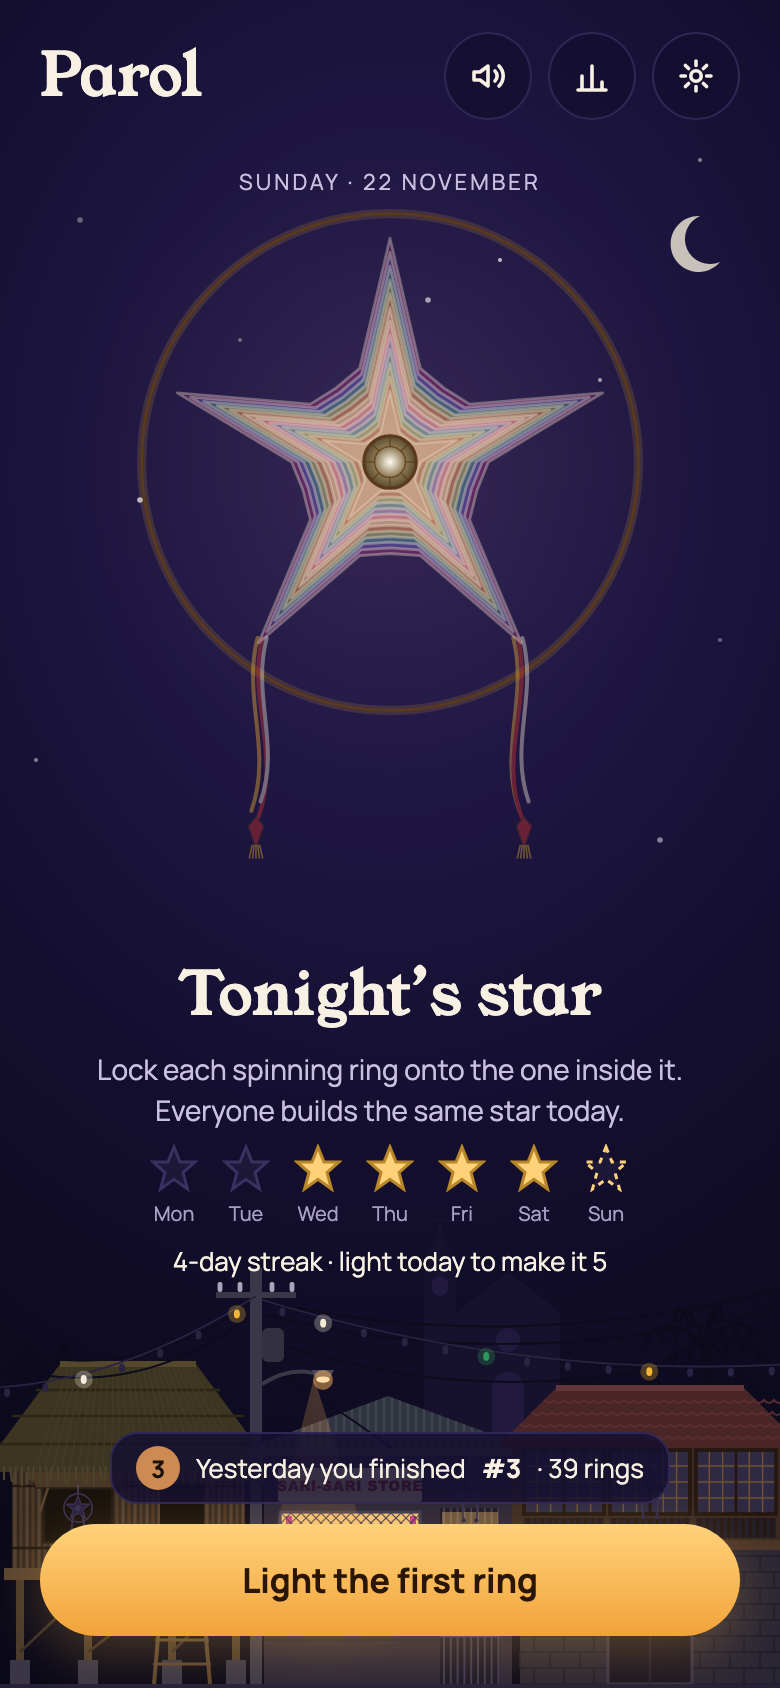
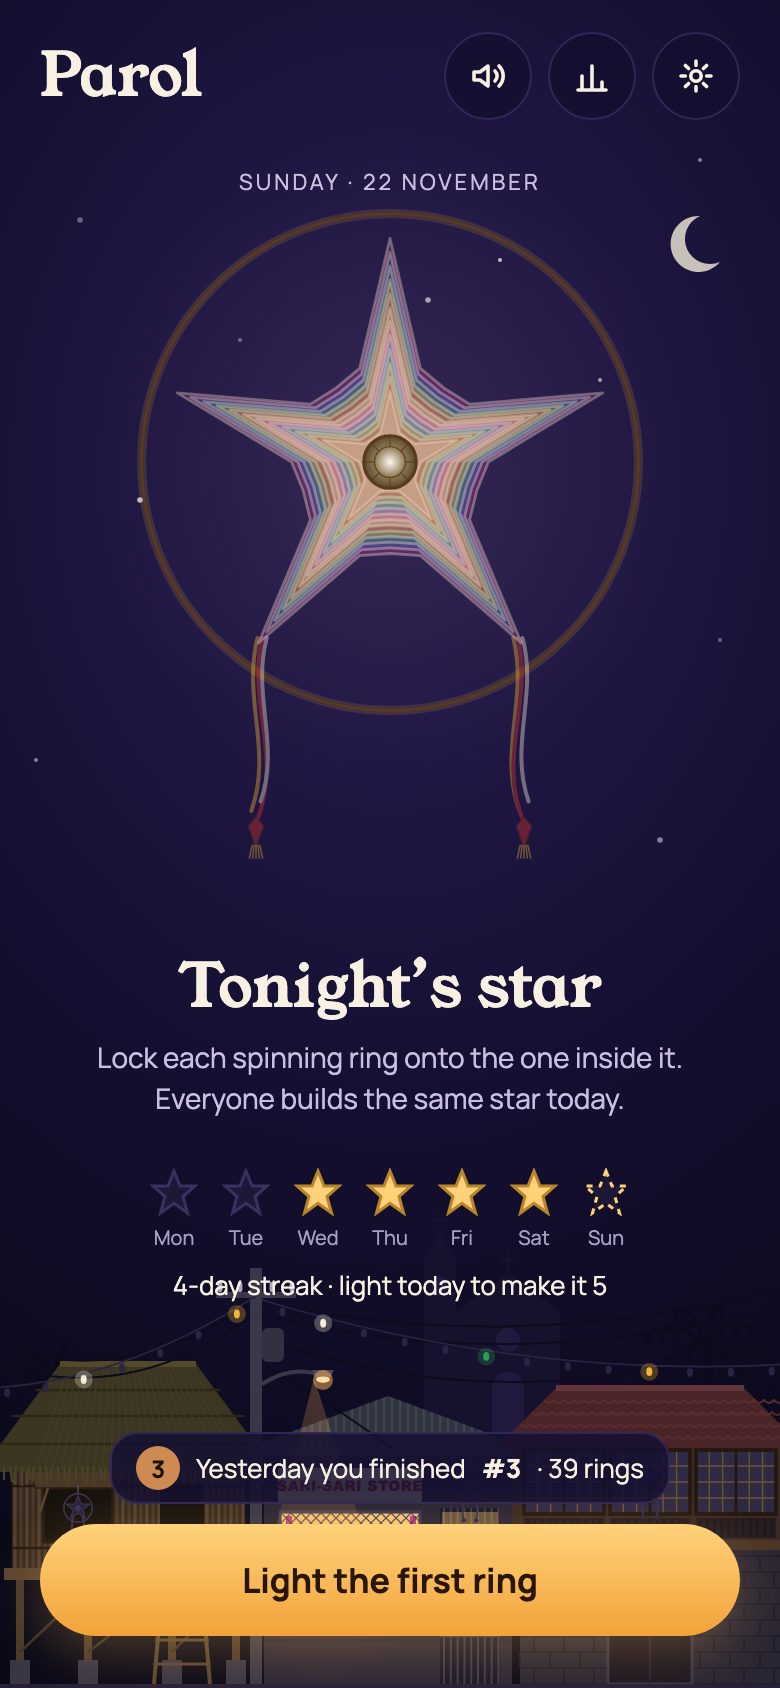
Even out spacing on the Parol phone screens
Measured every screen for overlaps and tight gaps. The board's name card
now fits inside the margins, the reduced-motion callout clears the meter,
the offline notice clears the star, and Loading, Ready and Run ended use
the 8/16/24 scale. Canvas artboards re-synced.

Changed region(s): [[0.1231, 0.5545, 0.8615, 0.7701]]

diff --git a/design/remotion/src/mockups/phone.tsx b/design/remotion/src/mockups/phone.tsx
@@ -75,7 +75,7 @@ export const RunScreen: React.FC<{ stage?: Stage; rings: number; streak: number;
 
 export const P01Loading: React.FC = () => (
   <Screen>
-    <div style={{ position: 'absolute', inset: 0, display: 'flex', flexDirection: 'column', alignItems: 'center', justifyContent: 'center', gap: 18, paddingBottom: 120 }}>
+    <div style={{ position: 'absolute', inset: 0, display: 'flex', flexDirection: 'column', alignItems: 'center', justifyContent: 'center', gap: 24, paddingBottom: 120 }}>
       <Parol size={180} locks={[0, 0, 0, 0]} light={0.5} />
       <Wordmark size={54} />
       <span style={{ fontSize: 14, color: C.muted }}>Lighting tonight’s star…</span>
@@ -102,11 +102,11 @@ export const P02Ready: React.FC = () => (
     <StarStage top={96} size={270}>
       <Parol size={270} locks={TONIGHT} dim />
     </StarStage>
-    <div style={{ position: 'absolute', left: 24, right: 24, top: 476, display: 'flex', flexDirection: 'column', alignItems: 'center', gap: 6, textAlign: 'center' }}>
-      <span style={{ fontFamily: SERIF, fontSize: 30 }}>Tonight’s star</span>
+    <div style={{ position: 'absolute', left: 24, right: 24, top: 476, display: 'flex', flexDirection: 'column', alignItems: 'center', gap: 8, textAlign: 'center' }}>
+      <span style={{ fontFamily: SERIF, fontSize: 30, lineHeight: 1.15 }}>Tonight’s star</span>
       <span style={{ fontSize: 14, lineHeight: 1.45, color: C.muted }}>Lock each spinning ring onto the one inside it. Everyone builds the same star today.</span>
     </div>
-    <div style={{ position: 'absolute', left: 20, right: 20, top: 572, display: 'flex', flexDirection: 'column', alignItems: 'center', gap: 8 }}>
+    <div style={{ position: 'absolute', left: 20, right: 20, top: 584, display: 'flex', flexDirection: 'column', alignItems: 'center', gap: 8 }}>
       <WeekStars lit={[false, false, true, true, true, true, false]} today={6} />
       <span style={{ fontSize: 13 }}>4-day streak · light today to make it 5</span>
     </div>
@@ -265,7 +265,7 @@ export const P11Results: React.FC = () => (
       <span style={{ fontFamily: SERIF, fontSize: 30, lineHeight: 1.1 }}>The points got too thin</span>
       <span style={{ fontSize: 13, color: C.muted }}>Ring 13 locked 7° off, leaving 4° points (8° needed)</span>
     </div>
-    <div style={{ position: 'absolute', left: 20, right: 20, top: 480, display: 'grid', gridTemplateColumns: 'repeat(3, minmax(0, 1fr))', gap: 8 }}>
+    <div style={{ position: 'absolute', left: 20, right: 20, top: 474, display: 'grid', gridTemplateColumns: 'repeat(3, minmax(0, 1fr))', gap: 8 }}>
       <StatTile value="12" label="rings" />
       <StatTile value="7" label="perfect" color={C.gold} />
       <StatTile value="#14" label="today" />
@@ -317,7 +317,7 @@ export const P12Board: React.FC = () => (
         ]}
       />
     </div>
-    <div style={{ position: 'absolute', left: 20, right: 20, bottom: 26 }}>
+    <div style={{ position: 'absolute', left: 20, right: 20, bottom: 26, display: 'flex' }}>
       <Card>
         <Label>Your name on the board</Label>
         <label style={{ display: 'flex', alignItems: 'center', gap: 10, height: 48, padding: '0 14px', borderRadius: 12, background: '#15112f', border: `1px solid ${C.line}`, fontSize: 15 }}>

diff --git a/design/remotion/src/mockups/states.tsx b/design/remotion/src/mockups/states.tsx
@@ -1,7 +1,7 @@
 import React from 'react';
 import { Parol } from '../ParolStar';
 import { Board, C, Card, GhostButton, Icon, IconButton, Label, Overlay, PrimaryButton, SANS, SERIF, Screen, StatTile, StreakStars, WidthMeter, Wordmark } from './kit';
-import { SHORT_RUN, TONIGHT, Wire } from './phone';
+import { SHORT_RUN, TONIGHT } from './phone';
 
 const Chip: React.FC<{ children: React.ReactNode; tone?: 'gold' | 'coral' | 'plain' }> = ({ children, tone = 'gold' }) => {
   const color = tone === 'gold' ? C.gold : tone === 'coral' ? C.coral : C.ink;
@@ -42,9 +42,8 @@ export const S01FirstTime: React.FC = () => (
 /** No connection: the run still counts on this phone and uploads later. */
 export const S02Offline: React.FC = () => (
   <Screen stage={1}>
-    <Wire />
-    <div style={{ position: 'absolute', left: 90, top: 74 }}>
-      <Parol size={210} locks={SHORT_RUN} />
+    <div style={{ position: 'absolute', left: 105, top: 115 }}>
+      <Parol size={180} locks={SHORT_RUN} />
     </div>
     <div style={{ position: 'absolute', left: 20, right: 20, top: 16, display: 'flex', alignItems: 'center', gap: 10, padding: '10px 14px', borderRadius: 14, background: 'rgba(40,22,30,0.95)', border: '1px solid rgba(255,157,138,0.55)' }}>
       <svg width="20" height="20" viewBox="0 0 20 20" fill="none" stroke={C.coral} strokeWidth="1.8" strokeLinecap="round" aria-hidden="true">
@@ -150,9 +149,9 @@ export const S06ReducedMotion: React.FC = () => (
     <div style={{ position: 'absolute', left: 30, top: 84 }}>
       <Parol size={330} locks={[0, 0, 0, 4, 0, 0, -5]} spin={10} light={0.6} />
     </div>
-    <div style={{ position: 'absolute', left: 20, right: 20, top: 538, display: 'flex', flexDirection: 'column', alignItems: 'center', gap: 6, textAlign: 'center' }}>
-      <span style={{ fontFamily: SERIF, fontSize: 30 }}>10° to go</span>
-      <span style={{ fontSize: 13, color: C.muted }}>Reduced motion: the ring turns in small steps and tells you how far it is</span>
+    <div style={{ position: 'absolute', left: 20, right: 20, top: 516, display: 'flex', flexDirection: 'column', alignItems: 'center', gap: 8, textAlign: 'center' }}>
+      <span style={{ fontFamily: SERIF, fontSize: 30, lineHeight: 1.1 }}>10° to go</span>
+      <span style={{ fontSize: 13, lineHeight: 1.4, color: C.muted }}>Reduced motion: the ring turns in small steps and tells you how far it is</span>
     </div>
     <div style={{ position: 'absolute', left: 40, right: 40, top: 608 }}>
       <WidthMeter width={27} />

diff --git a/design/remotion/canvas/export-canvas.tsx b/design/remotion/canvas/export-canvas.tsx
@@ -1,10 +1,11 @@
 // Renders every Parol mockup to a static Design-canvas artboard (.dc.html), so the canvas matches the
 // repo's renders exactly. Run: node canvas/build.mjs  → canvas/out/project/*.dc.html + canvas.json
 import React from 'react';
+// @ts-expect-error @types/react-dom is not installed; esbuild bundles it fine
 import { renderToStaticMarkup } from 'react-dom/server';
 import { mkdirSync, writeFileSync } from 'node:fs';
 import { Parol } from '../src/ParolStar';
-import { C, SANS, SERIF, Label } from '../src/mockups/kit';
+import { C, SANS, Label } from '../src/mockups/kit';
 import * as phone from '../src/mockups/phone';
 import * as more from '../src/mockups/more';
 import * as states from '../src/mockups/states';

diff --git a/design/remotion/canvas/plain.py b/design/remotion/canvas/plain.py
@@ -1,0 +1,11 @@
+# Turns exported .dc.html artboards into plain HTML pages plus an index of iframes, for measuring.
+import os, re, sys, json
+src, dst = sys.argv[1], sys.argv[2]
+boards = json.load(open(os.path.join(src, 'canvas.json')))['boards']
+for f, b in boards.items():
+    s = open(os.path.join(src, f)).read()
+    body = s.split('</helmet>')[1].split('</x-dc>')[0]
+    fonts = re.search(r'<link[^>]+>', s).group(0)
+    open(os.path.join(dst, f.replace('.dc.html', '.html')), 'w').write(f'<!doctype html><html><head><meta charset="utf-8">{fonts}<style>body{{margin:0}}</style></head><body>{body}</body></html>')
+frames = ''.join(f'<iframe data-name="{f[:-8]}" src="{f[:-8]}.html" width="{b["w"]}" height="{b["h"]}" style="border:0;display:block"></iframe>' for f, b in boards.items() if b['w'] == 390)
+open(os.path.join(dst, 'index.html'), 'w').write(f'<!doctype html><html><body style="margin:0">{frames}</body></html>')
